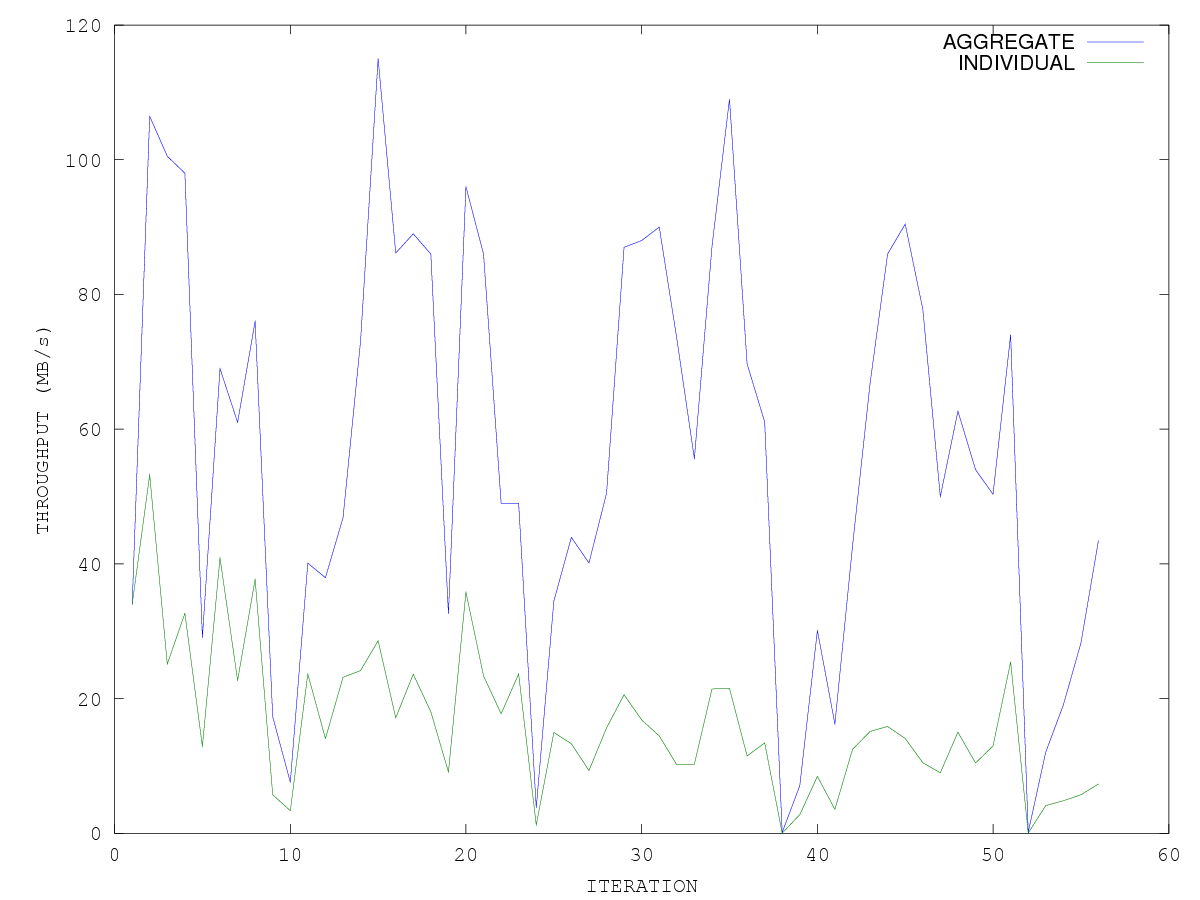
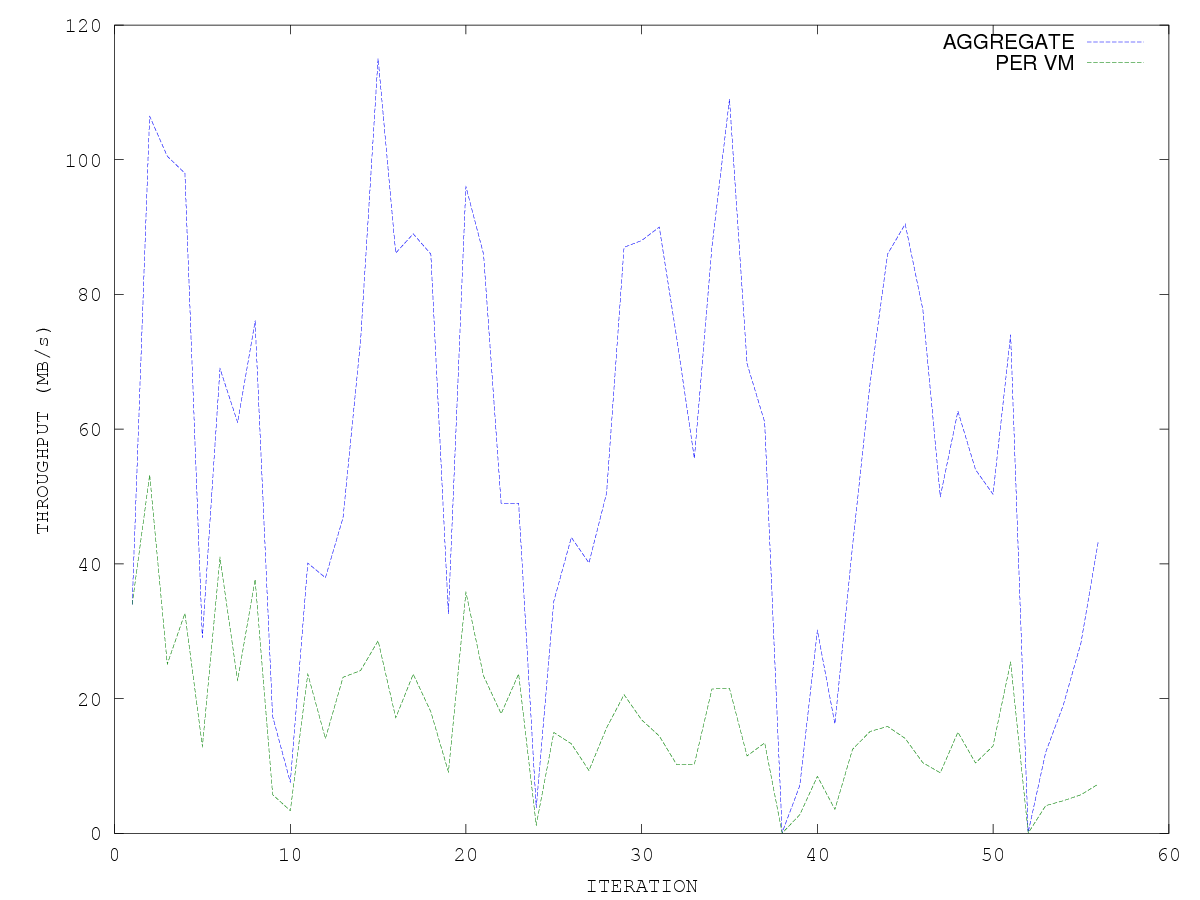
genplot

Changed region(s): [[0.8017, 0.0622, 0.8942, 0.0933]]

diff --git a/log/old/aggregate/20-80-180/genplot.m b/log/old/aggregate/20-80-180/genplot.m
@@ -32,10 +32,11 @@ saveas (1, strcat(output, ".emf"));
 
 figure;
 output = strcat(prefix, ".bw");
-plot(A(:,2:3)/1000000);
+plot(A(:,2:3)/1000000, '--');
 xlabel('ITERATION');
 ylabel('THROUGHPUT (MB/s)');
-legend('AGGREGATE', 'INDIVIDUAL');
+legend('AGGREGATE', 'PER VM');
+%legend('AGGREGATE', 'INDIVIDUAL');
 
 saveas (1, strcat(output, ".png"));
 saveas (1, strcat(output, ".eps"));
